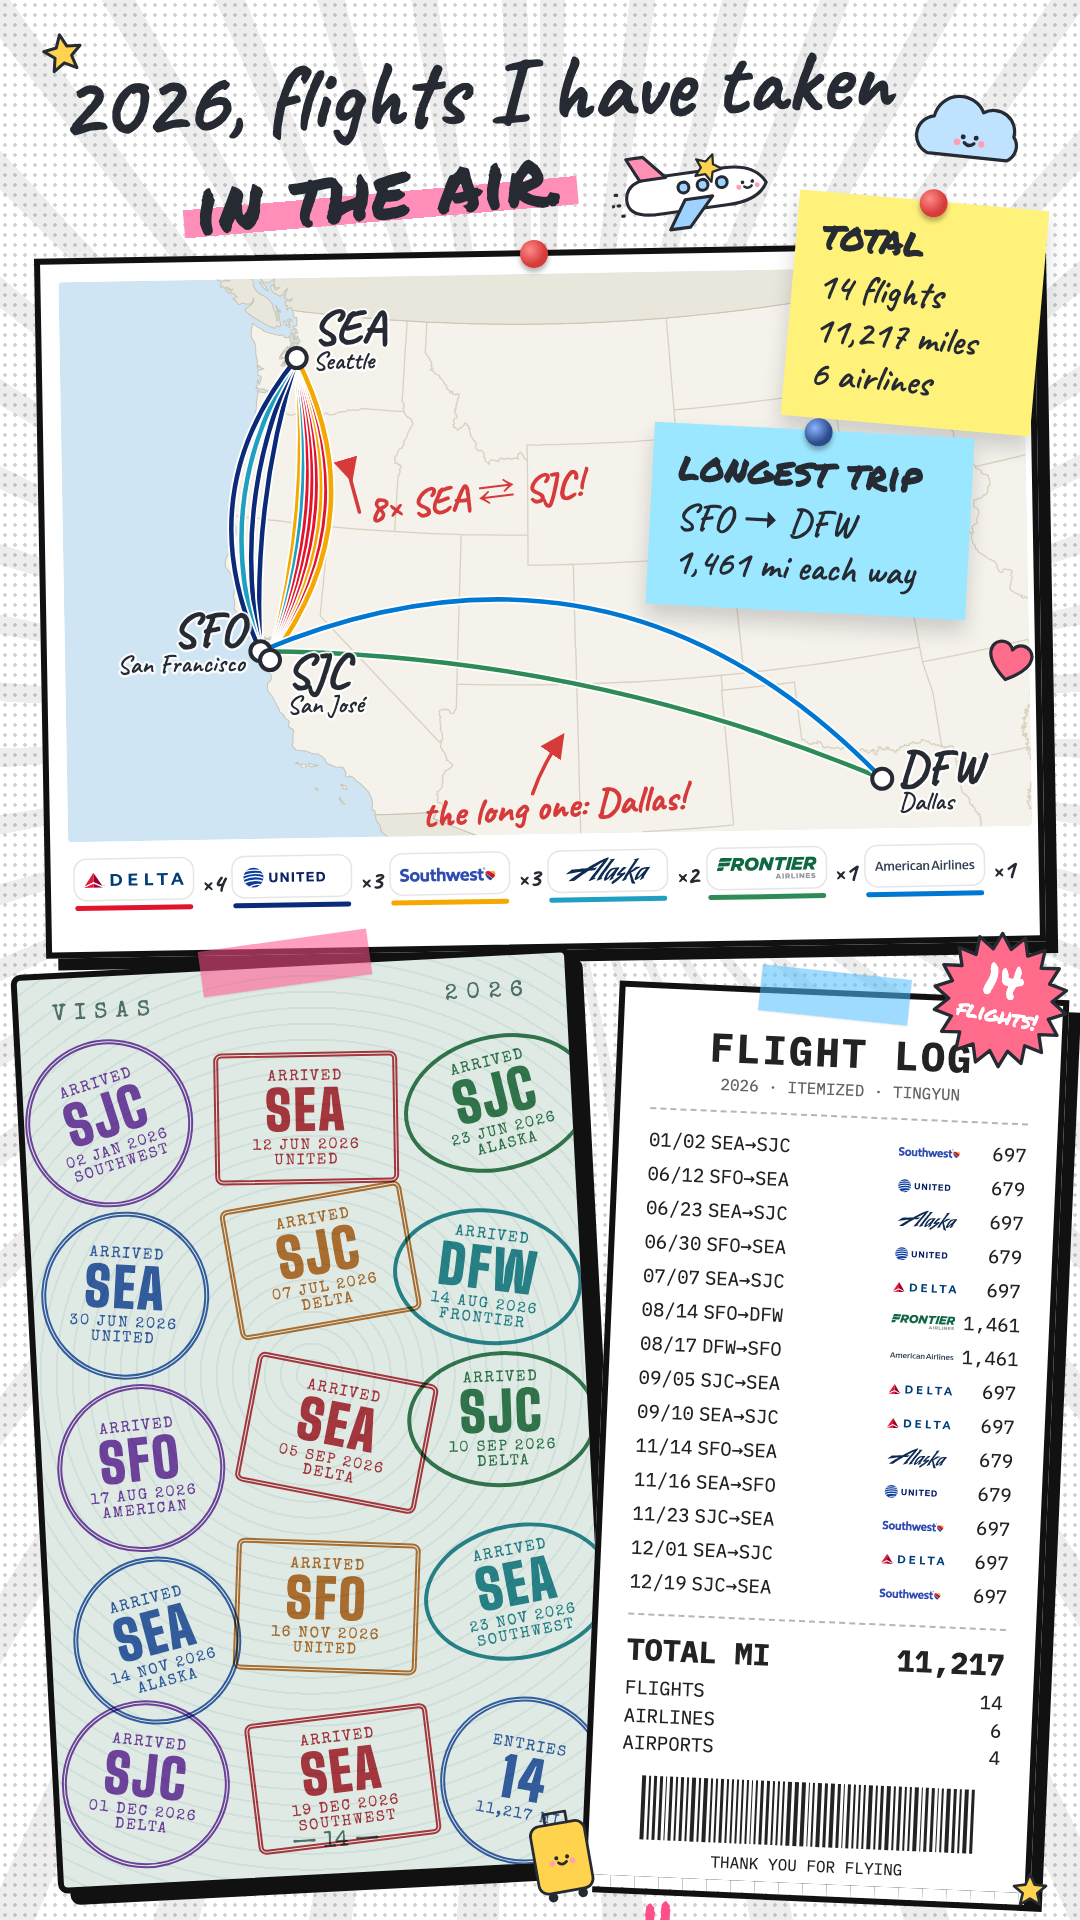
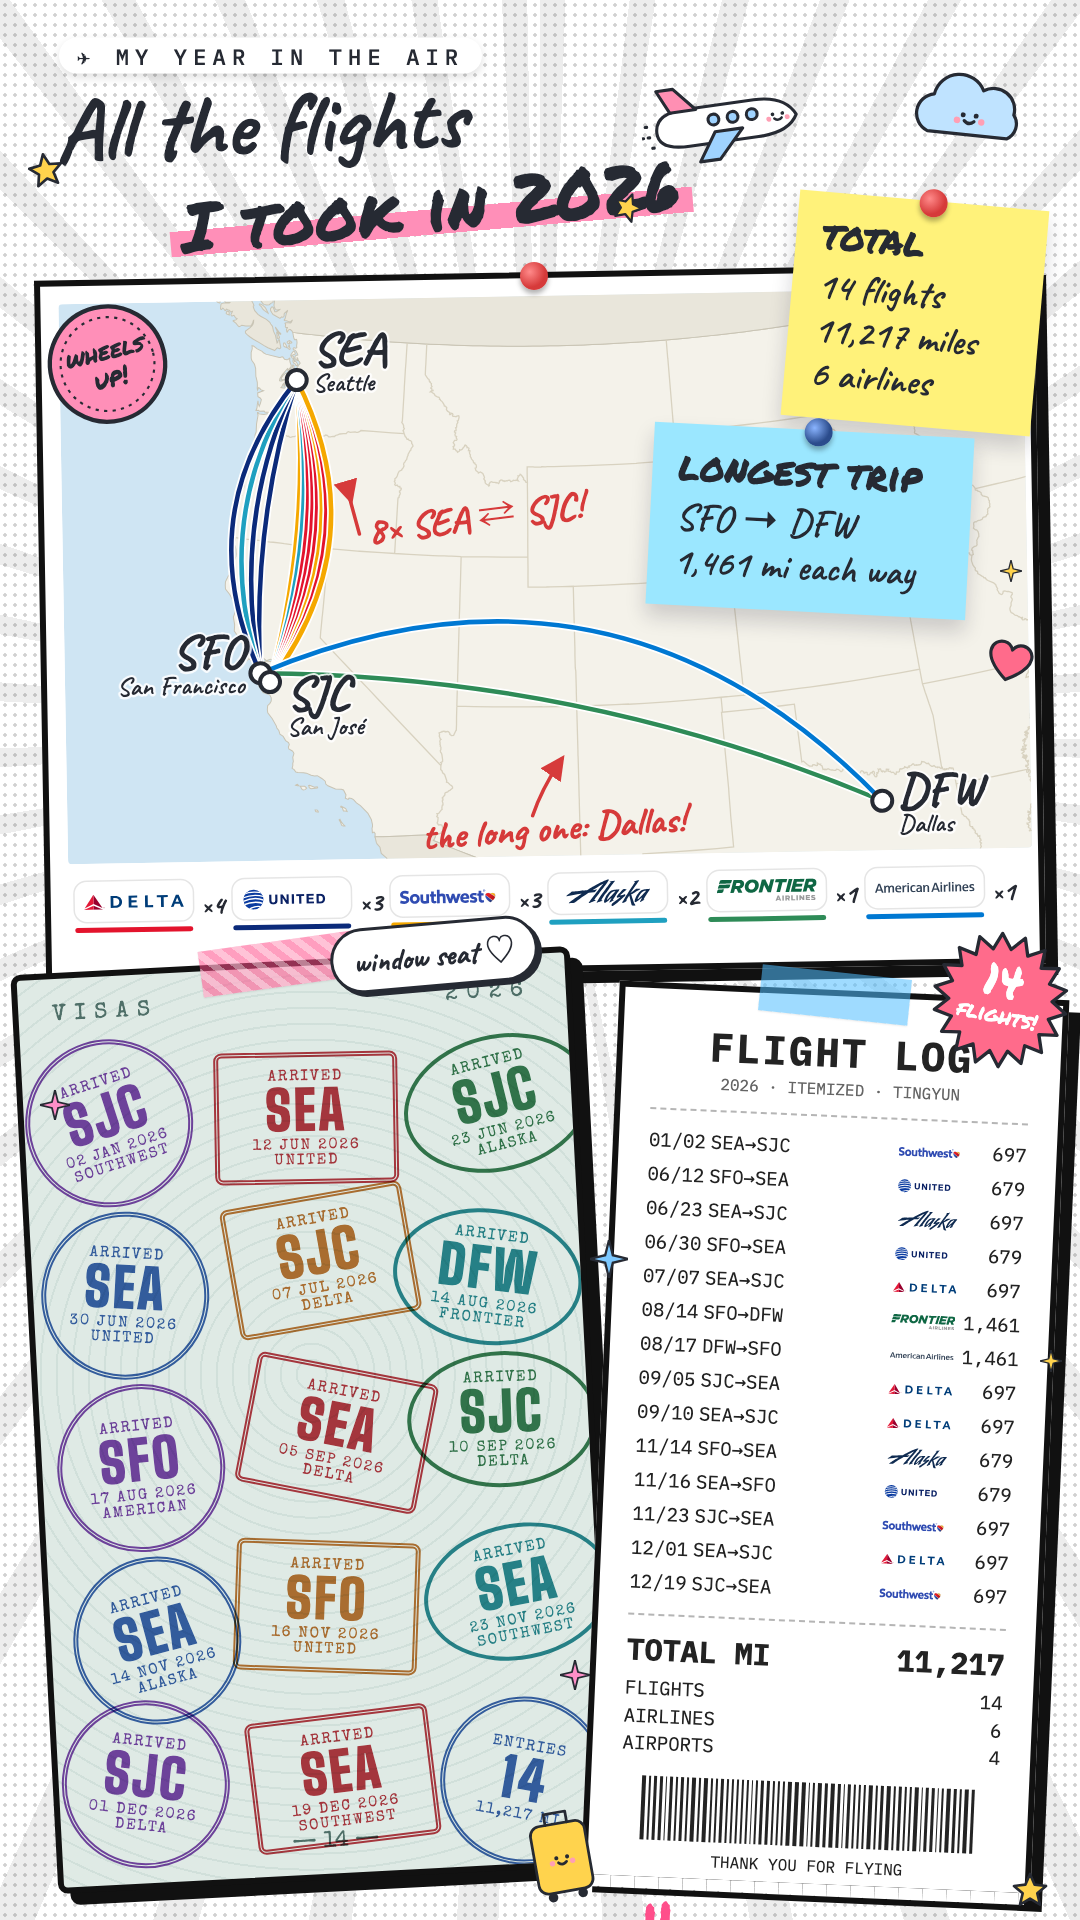
Fix collage title grammar, add lively stickers, re-render 20 looks

diff --git a/pictures/collages.html b/pictures/collages.html
@@ -15,14 +15,15 @@
 * { box-sizing: border-box; margin: 0; }
 html, body { width: 1080px; height: 1920px; overflow: hidden; }
 .pg { position: relative; width: 1080px; height: 1920px; overflow: hidden; background: var(--wall); color: var(--ink); }
-h1 { position: absolute; top: 46px; left: 60px; font: 700 92px/1 var(--hand); transform: rotate(-2deg); color: var(--title, #262a33); }
-h1 span { display: inline-block; margin: 10px 0 0 120px; font: 400 76px/1 var(--marker); background: linear-gradient(transparent 55%, var(--hl) 55% 92%, transparent 92%); padding: 0 12px; transform: rotate(-3deg); color: var(--hlInk, #262a33); }
+h1 { position: absolute; top: 34px; left: 56px; font: 700 88px/.95 var(--hand); transform: rotate(-2deg); color: var(--title, #262a33); }
+h1 small { display: block; width: max-content; margin: 0 0 10px 6px; padding: 8px 18px 6px; border-radius: 999px; background: #fff; color: #262a33; font: 500 22px/1 var(--mono); letter-spacing: .28em; text-transform: uppercase; transform: rotate(2deg); box-shadow: 0 4px 10px rgba(0,0,0,.12); }
+h1 span { display: inline-block; margin: 6px 0 0 110px; font: 400 68px/1 var(--marker); background: linear-gradient(transparent 55%, var(--hl) 55% 92%, transparent 92%); padding: 0 12px; transform: rotate(-3deg); color: var(--hlInk, #262a33); }
 .doodle { position: absolute; z-index: 9; }
 .burst { position: absolute; z-index: 10; }
 .pin { position: absolute; width: 28px; height: 28px; border-radius: 50%; background: radial-gradient(circle at 35% 35%, #ff8a8a, var(--pin) 60%); box-shadow: 0 4px 5px rgba(0,0,0,.3); z-index: 9; }
-.tape { position: absolute; height: 46px; background: var(--tape1); z-index: 9; box-shadow: 0 1px 2px rgba(0,0,0,.08); }
+.tape { position: absolute; height: 46px; background: repeating-linear-gradient(45deg, rgba(255,255,255,.38) 0 7px, transparent 7px 14px), var(--tape1); z-index: 9; box-shadow: 0 1px 2px rgba(0,0,0,.08); }
 
-.mapcard { position: absolute; top: 250px; left: 40px; width: 1000px; height: 700px; background: #fff; padding: 18px 18px 0; transform: rotate(-1deg); box-shadow: 0 16px 30px rgba(30,40,60,.18); }
+.mapcard { position: absolute; top: 272px; left: 40px; width: 1000px; height: 700px; background: #fff; padding: 18px 18px 0; transform: rotate(-1deg); box-shadow: 0 16px 30px rgba(30,40,60,.18); }
 .mapcard svg { width: 964px; height: 560px; display: block; border-radius: 4px; }
 .legend { display: flex; justify-content: space-between; align-items: center; padding: 18px 6px 0; }
 .legend div { display: flex; align-items: center; gap: 8px; font: 700 26px var(--hand); }
@@ -54,10 +55,10 @@ h1 span { display: inline-block; margin: 10px 0 0 120px; font: 400 76px/1 var(--
 </head>
 <body>
 <div class="pg" id="pg">
-  <h1>2026, flights I have taken<br><span>in the air.</span></h1>
+  <h1><small>✈ my year in the air</small>All the flights<br><span>I took in 2026</span></h1>
 
   <div class="mapcard"><svg id="map"></svg><div class="legend" id="legend"></div></div>
-  <span class="pin" style="top:240px;left:520px"></span>
+  <span class="pin" style="top:262px;left:520px"></span>
 
   <div class="passport" id="passport"><div class="hd"><span>VISAS</span><span>2026</span></div><div class="no">— 14 —</div></div>
   <div class="tape" style="top:940px;left:200px;width:170px;transform:rotate(-8deg)"></div>
@@ -80,7 +81,7 @@ const THEMES = [
     deco: confetti(140, ["#ff5fa2","#ffb800","#4da3ff","#36c98e","#9b6bff","#ff7a45"]) },
   { name: "luxury · black & gold", cards: "border: 8px solid #c9a24a; box-shadow: 0 0 0 2px #f3dc8f, 0 24px 40px rgba(0,0,0,.5)",  wall: "linear-gradient(135deg, rgba(255,255,255,.05) 0 25%, transparent 25% 50%, rgba(255,255,255,.05) 50% 75%, transparent 75%) 0 0/8px 8px, radial-gradient(ellipse at 50% 20%, #26231d, #0c0b0a 75%)", title: "#e6c77a", hl: "#b8902f", hlInk: "#fff8e6", n1: "#f3e7c9", n2: "#e9dcc2", tape1: "linear-gradient(90deg,#b8902f,#f3dc8f,#b8902f)", tape2: "linear-gradient(90deg,#b8902f,#f3dc8f,#b8902f)", pp: "#e9e4d6", rc: "#fbf7ee", water: "#d9d2bf", land: "#fbf8f0", land2: "#efe9db",
     deco: sparkle(26, ["#e6c77a","#f3dc8f"], 3) },
-  { name: "luxury · emerald velvet", cards: "border: 8px solid #c9a24a; box-shadow: 0 0 0 2px #f3dc8f, 0 24px 40px rgba(0,0,0,.45)",  wall: "radial-gradient(ellipse at 30% 20%, #1f6b52 0%, #0d3a2c 70%, #082519 100%)", title: "#f0d58c", hl: "#c9a24a", hlInk: "#082519", n1: "#f3e7c9", n2: "#f7d9d0", tape1: "linear-gradient(90deg,#b8902f,#f3dc8f,#b8902f)", tape2: "rgba(243,231,201,.8)", pp: "#e8efe9", rc: "#fbf7ee", water: "#cfe3da",
+  { name: "luxury · emerald velvet", hlFull: true, cards: "border: 8px solid #c9a24a; box-shadow: 0 0 0 2px #f3dc8f, 0 24px 40px rgba(0,0,0,.45)",  wall: "radial-gradient(ellipse at 30% 20%, #1f6b52 0%, #0d3a2c 70%, #082519 100%)", title: "#f0d58c", hl: "#c9a24a", hlInk: "#082519", n1: "#f3e7c9", n2: "#f7d9d0", tape1: "linear-gradient(90deg,#b8902f,#f3dc8f,#b8902f)", tape2: "rgba(243,231,201,.8)", pp: "#e8efe9", rc: "#fbf7ee", water: "#cfe3da",
     deco: sparkle(18, ["#f0d58c"], 5) },
   { name: "luxury · blush marble", cards: "border: 6px solid #d4af5e; box-shadow: 0 18px 34px rgba(120,80,60,.2)",  wall: "linear-gradient(115deg, transparent 40%, rgba(190,160,150,.25) 42%, transparent 44%), linear-gradient(35deg, transparent 60%, rgba(190,160,150,.2) 61%, transparent 63%), linear-gradient(160deg, transparent 20%, rgba(200,170,160,.18) 21%, transparent 23%), #f6ece9", title: "#3b2a2a", hl: "#e8c58c", n1: "#ffffff", n2: "#f6d6d6", tape1: "linear-gradient(90deg,#c9a24a,#f3dc8f,#c9a24a)", tape2: "rgba(240,200,200,.8)", pp: "#f4e8e6", water: "#efdcd8",
     deco: sparkle(14, ["#d4af5e"], 7) },
@@ -96,13 +97,13 @@ const THEMES = [
   { name: "beautiful · lavender dusk", wall: "linear-gradient(170deg, #f3e9ff 0%, #dccdfb 60%, #c7b8f0 100%)", hl: "#ffffff", hlInk: "#6a4fb3", pp: "#efe8fb", n1: "#ffffff", n2: "#ffd6e2", water: "#ddd8f7", tape1: "rgba(255,255,255,.7)",
     deco: sparkle(20, ["#ffffff"], 13) },
   { name: "attractive · coral pop", cards: "box-shadow: 14px 14px 0 #1fd1c1",  wall: `radial-gradient(rgba(255,255,255,.25) 2px, transparent 2.5px) 0 0/26px 26px, #ff7a6b`, title: "#ffffff", hl: "#1fd1c1", hlInk: "#fff", n1: "#fff27a", n2: "#ffffff", tape1: "rgba(31,209,193,.7)", tape2: "rgba(255,242,122,.8)", water: "#cfeff0" },
-  { name: "attractive · navy & gold", cards: "border: 6px solid #ffc24b; box-shadow: 0 20px 40px rgba(0,0,0,.4)",  wall: `radial-gradient(rgba(255,255,255,.08) 1px, transparent 1.5px) 0 0/12px 12px, #1d2b4f`, title: "#ffffff", hl: "#ffc24b", pp: "#efe2e4", n1: "#ffc24b", n2: "#9fd3ff", water: "#b9cdf0", mirror: true },
+  { name: "attractive · navy & gold", hlFull: true, cards: "border: 6px solid #ffc24b; box-shadow: 0 20px 40px rgba(0,0,0,.4)",  wall: `radial-gradient(rgba(255,255,255,.08) 1px, transparent 1.5px) 0 0/12px 12px, #1d2b4f`, title: "#ffffff", hl: "#ffc24b", pp: "#efe2e4", n1: "#ffc24b", n2: "#9fd3ff", water: "#b9cdf0", mirror: true },
   { name: "quality · linen", wall: "repeating-linear-gradient(0deg, rgba(120,100,70,.05) 0 2px, transparent 2px 5px), repeating-linear-gradient(90deg, rgba(120,100,70,.05) 0 2px, transparent 2px 5px), #efe8dc", hl: "#c9e4ff", pp: "#dfe7f3", n1: "#fff3a0", n2: "#f9c6a8" },
-  { name: "quality · leather & kraft", wall: "radial-gradient(rgba(0,0,0,.12) 1px, transparent 1.6px) 0 0/7px 7px, radial-gradient(ellipse at 50% 30%, #8b5a3c, #5c3a25 80%)", title: "#f6e7cf", hl: "#e0b26b", hlInk: "#3b2416", n1: "#f6e7cf", n2: "#d9c3a0", rc: "#fffbea", tape1: "rgba(246,231,207,.7)", mirror: true },
+  { name: "quality · leather & kraft", hlFull: true, wall: "radial-gradient(rgba(0,0,0,.12) 1px, transparent 1.6px) 0 0/7px 7px, radial-gradient(ellipse at 50% 30%, #8b5a3c, #5c3a25 80%)", title: "#f6e7cf", hl: "#e0b26b", hlInk: "#3b2416", n1: "#f6e7cf", n2: "#d9c3a0", rc: "#fffbea", tape1: "rgba(246,231,207,.7)", mirror: true },
   { name: "easy · graph paper", wall: "linear-gradient(#cfe0f3 1.5px, transparent 1.5px) 0 0/54px 54px, linear-gradient(90deg, #cfe0f3 1.5px, transparent 1.5px) 0 0/54px 54px, #fbfdff", hl: "#9be3c8", n1: "#ffe680", n2: "#ffb3c7" },
   { name: "easy · mint", wall: `radial-gradient(rgba(30,120,90,.12) 1px, transparent 1.5px) 0 0/12px 12px, #dff3ea`, hl: "#ffd36b", n1: "#ffb3c7", n2: "#fff3a0", water: "#c8ece4", mirror: true },
-  { name: "interesting · blueprint", wall: "linear-gradient(rgba(255,255,255,.1) 1px, transparent 1px) 0 0/54px 54px, linear-gradient(90deg, rgba(255,255,255,.1) 1px, transparent 1px) 0 0/54px 54px, radial-gradient(ellipse at 50% 40%, #2563a8, #173f73)", title: "#ffffff", hl: "#ffd27a", n1: "#ffd27a", n2: "#9fd3ff", water: "#c9def5" },
-  { name: "interesting · chalkboard", wall: "radial-gradient(ellipse at 40% 30%, #3a5f4f 0%, #1f3a2e 85%)", title: "#f4f4ee", hl: "#ff8fb3", n1: "#fff3a0", n2: "#ffd0a0", water: "#bfe0d3", mirror: true },
+  { name: "interesting · blueprint", hlFull: true, wall: "linear-gradient(rgba(255,255,255,.1) 1px, transparent 1px) 0 0/54px 54px, linear-gradient(90deg, rgba(255,255,255,.1) 1px, transparent 1px) 0 0/54px 54px, radial-gradient(ellipse at 50% 40%, #2563a8, #173f73)", title: "#ffffff", hl: "#ffd27a", n1: "#ffd27a", n2: "#9fd3ff", water: "#c9def5" },
+  { name: "interesting · chalkboard", hlFull: true, wall: "radial-gradient(ellipse at 40% 30%, #3a5f4f 0%, #1f3a2e 85%)", title: "#f4f4ee", hl: "#ff8fb3", n1: "#fff3a0", n2: "#ffd0a0", water: "#bfe0d3", mirror: true },
 ];
 const tm = /^#c(\d+)$/.exec(location.hash);
 const TH = { ...BASE, ...THEMES[(tm ? Math.min(20, Math.max(1, +tm[1])) : 1) - 1] };
@@ -172,11 +173,18 @@ const D = {
 const place = (k, x, y, w, r = 0) => `<div class="doodle" style="left:${x}px;top:${y}px;width:${w}px;transform:rotate(${r}deg)">${D[k]}</div>`;
 let pts = "", N = 18; for (let k = 0; k < N * 2; k++) { const a = k / (N * 2) * Math.PI * 2, rr = k % 2 ? 62 : 80; pts += `${(90 + Math.cos(a) * rr).toFixed(1)},${(90 + Math.sin(a) * rr).toFixed(1)} `; }
 document.getElementById("pg").insertAdjacentHTML("beforeend",
-  place("plane", 610, 138, 170, -8) + place("star", 40, 30, 46, -10) + place("star", 690, 150, 34, 20) + place("cloud", 905, 92, 130, 6) +
+  place("plane", 640, 70, 170, -8) + place("star", 26, 150, 40, -10) + place("star", 610, 190, 34, 20) + place("cloud", 905, 70, 130, 6) +
   place("heart", 985, 640, 48, 14) + place("suitcase", 520, 1800, 82, -10) + place("star", 1010, 1870, 40) +
   `<div class="burst" style="left:925px;top:925px;width:150px;transform:rotate(12deg)"><svg viewBox="0 0 180 180"><polygon points="${pts}" fill="#ff6b8b" stroke="#262a33" stroke-width="4" stroke-linejoin="round"/><text x="90" y="86" text-anchor="middle" font-family="Permanent Marker" font-size="52" fill="#fff">14</text><text x="90" y="118" text-anchor="middle" font-family="Permanent Marker" font-size="26" fill="#fff">flights!</text></svg></div>`);
 
+/* ---------- lively stickers ---------- */
+document.getElementById("pg").insertAdjacentHTML("beforeend", `
+  <div class="burst" style="left:44px;top:300px;width:128px;transform:rotate(-14deg)"><svg viewBox="0 0 120 120"><circle cx="60" cy="60" r="54" fill="${TH.hl}" stroke="#262a33" stroke-width="4"/><circle cx="60" cy="60" r="44" fill="none" stroke="#262a33" stroke-width="2" stroke-dasharray="3 5"/><text x="60" y="56" text-anchor="middle" font-family="Permanent Marker" font-size="22" fill="${TH.hlInk || "#262a33"}">wheels</text><text x="60" y="82" text-anchor="middle" font-family="Permanent Marker" font-size="24" fill="${TH.hlInk || "#262a33"}">up!</text></svg></div>
+  <div class="burst" style="left:${TH.mirror ? 640 : 330}px;top:922px;transform:rotate(${TH.mirror ? 4 : -5}deg);background:#fff;border:3px solid #262a33;border-radius:999px;padding:8px 20px 6px;font:700 30px Caveat;color:#262a33;box-shadow:4px 4px 0 #262a33">window seat ♡</div>
+  ${[[1000,560],[40,1090],[590,1240],[1040,1350],[560,1660]].map(([x,y],i) => `<svg style="position:absolute;left:${x}px;top:${y}px;width:${22 + i % 3 * 8}px;z-index:10" viewBox="0 0 20 20"><path d="M10 0 L12 8 L20 10 L12 12 L10 20 L8 12 L0 10 L8 8Z" fill="${["#ffd34d","#ff8fc8","#7cc8ff"][i % 3]}" stroke="#262a33" stroke-width="1.2"/></svg>`).join("")}`);
+
 /* ---------- mirrored layout: receipt on the left, passport on the right ---------- */
+if (TH.hlFull) { const sp = document.querySelector("h1 span"); sp.style.background = TH.hl; sp.style.color = "#1d1d1f"; sp.style.padding = "6px 18px 2px"; sp.style.borderRadius = "6px"; }
 if (TH.cards) document.querySelectorAll(".mapcard, .passport, #receipt").forEach(el => el.style.cssText += ";" + TH.cards);
 if (TH.mirror) {
   const pp = document.querySelector(".passport"), rc = document.getElementById("receipt"), tapes = document.querySelectorAll(".tape"), burst = document.querySelector(".burst");
